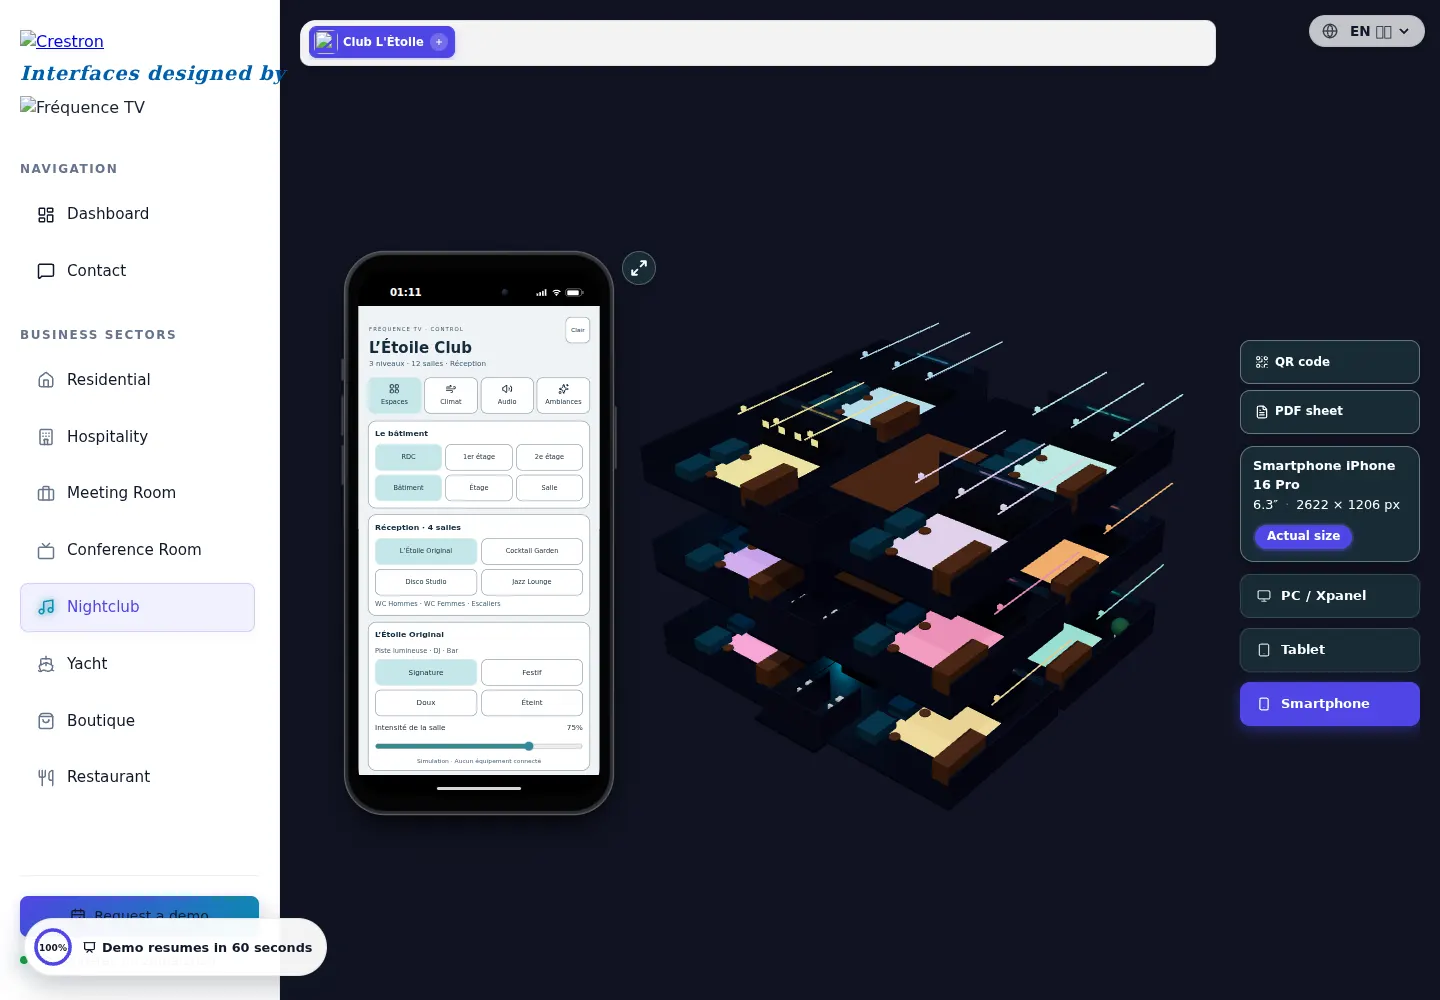
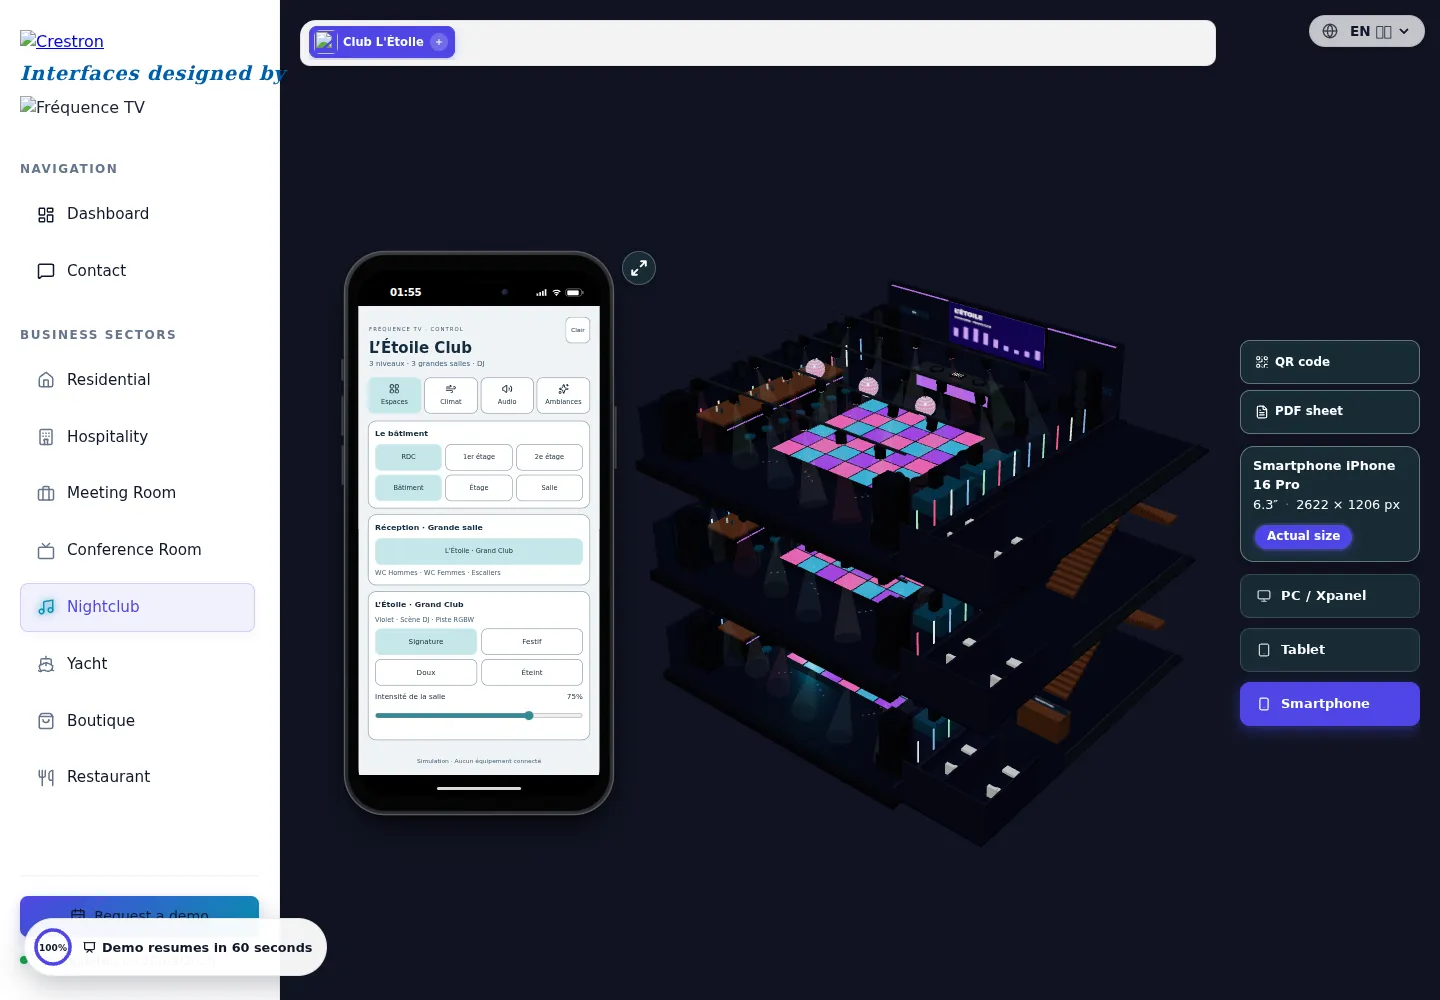
feat(club): one open hall per floor with RGBW rigs, mirror balls and full PA

diff --git a/apps/showcase/public/ftv-luxury/venues/venue.js b/apps/showcase/public/ftv-luxury/venues/venue.js
@@ -61,53 +61,63 @@ if(!club){
  sign('LOUNGE',9,2.2,-12.6,3,.5);sign('BAR',-8,4,-12.6,3,.5);
 }
 
-const clubFloors=[],clubRooms=new Map();
+const clubFloors=[],clubRooms=new Map(),movingHeads=[],mirrorBalls=[];
 if(club){
- const original=new T.Group();original.name='Original club retained';while(model.children.length)original.add(model.children[0]);
- const definitions=[
- {"id":"original","floor":0,"name":"L’Étoile Original","color":"#985cff","style":"original","mood":"Piste lumineuse · DJ · Bar"},
- {"id":"garden","floor":0,"name":"Cocktail Garden","color":"#43cfab","style":"garden","mood":"Vert jade · Jardin lounge"},
- {"id":"disco","floor":0,"name":"Disco Studio","color":"#ed6bae","style":"disco","mood":"Rose · Boule à facettes"},
- {"id":"jazz","floor":0,"name":"Jazz Lounge","color":"#efb75c","style":"jazz","mood":"Ambre · Petite scène live"},
- {"id":"neon","floor":1,"name":"Neon Lab","color":"#34c5f4","style":"neon","mood":"Cyan · Arches lumineuses"},
- {"id":"latino","floor":1,"name":"Latino Club","color":"#f38347","style":"latino","mood":"Corail · Piste chaleureuse"},
- {"id":"house","floor":1,"name":"House Room","color":"#a27bfa","style":"house","mood":"Violet · Lignes en mouvement"},
- {"id":"velvet","floor":1,"name":"Velvet VIP","color":"#dd6890","style":"velvet","mood":"Framboise · Alcôves privées"},
- {"id":"sky","floor":2,"name":"Sky Lounge","color":"#69bdf0","style":"sky","mood":"Bleu glacier · Salon panoramique"},
- {"id":"aurora","floor":2,"name":"Aurora Room","color":"#60dfca","style":"aurora","mood":"Turquoise · Vagues lumineuses"},
- {"id":"retro","floor":2,"name":"Retro Arcade","color":"#eed05a","style":"retro","mood":"Or · Bornes et damier"},
- {"id":"private","floor":2,"name":"Private Suite","color":"#c6a7f0","style":"private","mood":"Lavande · Salon privatisable"}
-]
-;
- for(let f=0;f<3;f++){
- const floor=new T.Group();floor.name='Club level '+f;floor.position.y=f*9;model.add(floor);clubFloors.push(floor);
- const capture=fn=>{const before=new Set(model.children);fn();for(const child of [...model.children])if(!before.has(child))floor.add(child);};
- capture(()=>{
- box('Landing '+f,0,-.15,0,7,.3,34,M.floor);
- box(f===0?'Grand reception':'Central landing',0,0,0,7,.15,13,M.wood);
- if(f===0){box('Reception desk',0,1,7,4,2,1.2,M.black);sign('RÉCEPTION',0,2.6,7,4,.6);}
- // Two flights with a shared intermediate landing; each rises 9 m to the next level.
- if(f<2){for(let i=0;i<15;i++){box('Ascending stair flight',-1.7,i*.3, -3-i*.43,2.4,.3,.45,M.wood);box('Returning stair flight',1.7,4.5+i*.3,-9+i*.43,2.4,.3,.45,M.wood);}box('Stair intermediate landing',0,4.2,-9.7,6,.3,1.2,M.wood);}
- for(const [x,label] of [[-1.8,'WC Hommes'],[1.8,'WC Femmes']]){
- box(label+' floor',x,.02,13.5,3.3,.15,5,M.floor);box(label+' partition',x+1.6,1.5,13.5,.12,3,5,M.wall);box(label+' rear wall',x,1.5,16,3.3,3,.15,M.wall);sign(label,x,2.5,15.85,3,.5);
- for(const z of [12.5,14.6]){cylinder('Toilet bowl',x,.5,z,.4,.5,M.white);box('Toilet cistern',x,.95,z+.45,.7,.9,.25,M.white);}box('Washbasin',x,.9,11.4,1.5,.2,.6,M.white);
+ const original=new T.Group();original.name='Open dance hall';
+ const discarded=new Set([...beams,smoke]);
+ for(const child of [...model.children]){
+  if(discarded.has(child)||['Lighting truss','Moving head','Speaker stack','Speaker grille'].includes(child.name)||(child.position.z>8&&['Lounge banquette','Lounge back','Cocktail table','Table top'].includes(child.name)))model.remove(child);
+  else original.add(child);
  }
- });
- definitions.filter(r=>r.floor===f).forEach((r,i)=>{
- const g=new T.Group();g.name=r.name;g.position.set(i%2===0?-10:10,0,i<2?-8:8);floor.add(g);const mats=[];
- if(r.id==='original'){original.scale.setScalar(.48);g.add(original);mats.push(accent,...floorLights);}
- else{const old=new Set(model.children),glow=luminous(r.color,.8);mats.push(glow);
- box('Room floor',0,0,0,13,.2,15,M.floor);box('Room rear',0,1.6,-7.5,13,3.2,.15,M.wall);box('Room outer wall',i%2===0?-6.5:6.5,1.6,0,.15,3.2,15,M.wall);
- box('Illuminated dance floor',0,.13,0,7,.04,7,glow);box('DJ or live stage',0,.4,-5,7,.8,3,M.black);box('Bar',4,1,3,1.6,2,5,M.wood);
- for(const z of [0,4]){box('Sofa',-4,.55,z,2,1.1,2.8,M.seat);cylinder('Table',-2,.65,z,.5,.12,M.wood);}
- for(const x of [-4,0,4]){box('Ceiling light',x,4,-2,.35,.35,.35,glow);box('Light ribbon',x,3.7,-7.3,.1,.1,12,glow);}
- if(r.style==='disco'){const ball=new T.Mesh(new T.SphereGeometry(.7,12,8),material('#cbd5e7',.1,1));ball.name='Mirror ball';ball.position.set(0,3.7,0);model.add(ball);}
- if(r.style==='garden')for(const x of [-5,5]){cylinder('Planter',x,.45,-4,.5,.9,M.white);const tree=new T.Mesh(new T.SphereGeometry(.9,12,8),material('#326a51'));tree.position.set(x,1.8,-4);model.add(tree);}
- if(r.style==='retro')for(const x of [-4,-2,0,2]){box('Arcade cabinet',x,1.1,-5,1,2.2,1,M.black);box('Arcade display',x,1.55,-4.48,.8,.65,.02,glow);}
- sign(r.name,0,2.8,-7.35,10,.7,r.color);for(const o of [...model.children])if(!old.has(o))g.add(o);
+ beams.length=0;
+ const definitions=[{"id": "original", "floor": 0, "name": "L’Étoile · Grand Club", "color": "#ad63ff", "mood": "Violet · Scène DJ · Piste RGBW"}, {"id": "neon", "floor": 1, "name": "Neon · Electro Hall", "color": "#35ceef", "mood": "Cyan · Faisceaux croisés · DJ"}, {"id": "sky", "floor": 2, "name": "Sky · Disco Hall", "color": "#f085c6", "mood": "Rose & or · Boules à facettes · DJ"}];
+ const rgbw=['#ff426b','#46ed92','#559dff','#fff5df'];
+ for(const r of definitions){
+ const f=r.floor,floor=new T.Group(),g=original.clone(true);floor.name='Club level '+f;floor.position.y=f*9;model.add(floor);clubFloors.push(floor);g.name=r.name;floor.add(g);
+ const mats=[],roomBeams=[],roomHeads=[],balls=[],smokes=[];
+ const cloned=new Map();g.traverse(o=>{if(o.isMesh){o.castShadow=false;if(o.material.emissive&&o.material.emissiveIntensity>0){if(!cloned.has(o.material)){const m=o.material.clone();cloned.set(o.material,m);mats.push(m);}o.material=cloned.get(o.material);}}});
+ const capture=(parent,fn)=>{const before=new Set(model.children);fn();for(const child of [...model.children])if(!before.has(child)){child.castShadow=false;parent.add(child);}};
+ capture(g,()=>{
+ // Four 4.5 m PA towers, each with a double subwoofer and stacked drivers.
+ for(const x of [-9.5,9.5])for(const z of [-10.8,10.8]){
+ const tower=box('Giant corner speaker',x,2.25,z,1.7,4.5,1.45,M.black);tower.userData.kind='cornerSpeaker';
+ box('Dual subwoofer enclosure',x,.65,z,2.1,1.3,1.65,M.black);
+ for(const y of [.5,1.15,2,2.8,3.65,4.15]){const driver=cylinder('PA driver',x,y,z+(z>0?-.84:.84),y<1.3?.32:.45,.07,M.metal);driver.rotation.x=Math.PI/2;}
  }
- clubRooms.set(r.id,{group:g,floor:f,materials:mats});
+ for(const x of [-10.7,10.7])for(const z of [-6,-1,4,8]){
+ const speaker=box('Wall speaker',x,3.8,z,.55,1.15,.8,M.black);speaker.userData.kind='wallSpeaker';box('Wall speaker grille',x+(x>0?-.29:.29),3.8,z,.035,.95,.65,M.metal);
+ }
+ for(const z of [-5,0,5,10]){
+ box('DMX lighting truss',0,5.95,z,20,.13,.13,M.metal);
+ for(let k=0;k<6;k++){
+ const x=-8+k*3.2,color=rgbw[(k+Math.round(z/5)+f+8)%4],lens=luminous(color,1);mats.push(lens);
+ box('Lyre suspension',x,5.75,z,.55,.2,.55,M.black);
+ const head=new T.Group();head.name='DMX RGBW moving head';head.position.set(x,5.5,z);head.userData.floor=f;g.add(head);roomHeads.push(head);movingHeads.push(head);
+ const body=new T.Mesh(new T.BoxGeometry(.48,.6,.48),M.black);body.position.y=-.12;head.add(body);
+ const optic=new T.Mesh(new T.CylinderGeometry(.18,.18,.06,12),lens);optic.position.y=-.45;head.add(optic);
+ const beam=new T.Mesh(new T.ConeGeometry(.95,4.9,12,1,true),new T.MeshBasicMaterial({color,transparent:true,opacity:.065,depthWrite:false,side:T.DoubleSide}));beam.name='RGBW light beam';beam.position.y=-2.9;head.add(beam);beams.push(beam);roomBeams.push(beam);
+ }
+ }
+ for(const x of [-5,0,5]){
+ cylinder('Mirror ball cable',x,5.5,2,.018,.7,M.metal);
+ const ball=new T.Mesh(new T.SphereGeometry(.66,24,12).toNonIndexed(),new T.MeshStandardMaterial({color:'#d6e4f2',metalness:.9,roughness:.15,flatShading:true,emissive:r.color,emissiveIntensity:.13}));ball.name='Mirror ball';ball.position.set(x,4.75,2);model.add(ball);balls.push(ball);mirrorBalls.push(ball);
+ // Individual mirror tiles pick up alternating white and coloured highlights.
+ const tiles=new T.InstancedMesh(new T.BoxGeometry(.105,.105,.018),new T.MeshStandardMaterial({color:'#edf4ff',metalness:.75,roughness:.18,emissive:'#b8cbdf',emissiveIntensity:.18}),192);tiles.name='Mirror mosaic';const dummy=new T.Object3D();let n=0;
+ for(let row=1;row<=8;row++)for(let col=0;col<24;col++){const phi=row*Math.PI/9,theta=col*Math.PI/12;dummy.position.set(.67*Math.sin(phi)*Math.cos(theta),.67*Math.cos(phi),.67*Math.sin(phi)*Math.sin(theta));dummy.lookAt(dummy.position.clone().multiplyScalar(2));dummy.updateMatrix();tiles.setMatrixAt(n++,dummy.matrix);}ball.add(tiles);mats.push(ball.material,tiles.material);
+ }
+ for(const x of [-10.6,10.6])for(let i=0;i<12;i++){const led=luminous(rgbw[(i+f)%4],.7);mats.push(led);box('RGBW wall LED bar',x,1.3,-9+i*1.7,.07,1.8,.12,led);}
+ const dots=new T.InstancedMesh(new T.CircleGeometry(.09,6),new T.MeshBasicMaterial({color:r.color,transparent:true,opacity:.65,depthWrite:false}),64);dots.count=64;dots.name='Mirror ball light dots';const dummy=new T.Object3D();for(let i=0;i<64;i++){dummy.position.set(Math.sin(i*2.4)*4.7,.13,-3+((i*1.73)%12));dummy.rotation.x=-Math.PI/2;dummy.updateMatrix();dots.setMatrixAt(i,dummy.matrix);}model.add(dots);
+ for(let i=0;i<8;i++){const puff=new T.Mesh(new T.SphereGeometry(.75,10,6),new T.MeshBasicMaterial({color:r.color,transparent:true,opacity:.035,depthWrite:false}));puff.name='Haze';puff.position.set(-3+i*.8,.5+Math.sin(i)*.15,-4);puff.visible=false;model.add(puff);smokes.push(puff);}
  });
+ // Service annex beside the single open hall, without partitioning its dance floor.
+ capture(floor,()=>{
+ box('Reception and landing',15,-.08,0,7,.2,26,M.floor);
+ box('Landing balustrade',18.5,.6,-4,.1,1.2,15,M.metal);
+ if(f===0){box('Reception desk',15,1,1,3.5,2,1.5,M.wood);sign('RÉCEPTION',15,2.4,1,4,.5);}
+ if(f<2){for(let i=0;i<15;i++){box('Ascending stair',13.3,.15+i*.3,-3-i*.43,2.3,.3,.45,M.wood);box('Returning stair',16.5,4.65+i*.3,-9+i*.43,2.3,.3,.45,M.wood);}box('Stair landing',15,4.5,-9.7,6,.3,1.2,M.wood);}
+ for(const [x,label] of [[13.2,'WC Hommes'],[16.7,'WC Femmes']]){box(label+' floor',x,.05,9.5,3.3,.15,6,M.floor);box(label+' side',x+1.65,1.5,9.5,.12,3,6,M.wall);box(label+' rear',x,1.5,12.5,3.3,3,.12,M.wall);sign(label,x,2.5,12.4,3,.5);for(const z of [9,11]){cylinder('Toilet bowl',x,.5,z,.38,.5,M.white);box('Cistern',x,.95,z+.45,.7,.9,.25,M.white);}box('Washbasin',x,.9,7,1.5,.2,.6,M.white);}
+ });
+ clubRooms.set(r.id,{group:g,floor:f,materials:mats,beams:roomBeams,heads:roomHeads,balls,smokes,level:.75});
  }
 }
 
@@ -123,17 +133,22 @@ function frame(){const w=innerWidth,h=innerHeight,v=viewport||{x:0,y:0,w,h};rend
  }camera.position.copy(center).addScaledVector(dir,hi*zoom);camera.lookAt(center);camera.setViewOffset(v.w,v.h,-v.x,-v.y,w,h);camera.updateProjectionMatrix();}
 let lastSource='';function apply(s){
  if(club){
- const view=s.clubView||'building',floor=s.clubFloor||0,room=clubRooms.get(s.clubRoom||'original');
- clubFloors.forEach((g,i)=>{g.visible=view==='building'||i===floor;});
- clubRooms.forEach((r,id)=>{r.group.visible=view!=='room'||id===(s.clubRoom||'original');const setting=s.roomSettings?.[id]||{scene:'signature',level:75};r.materials.forEach(m=>m.emissiveIntensity=setting.scene==='off'?0:setting.level/100*(setting.scene==='party'?1.6:setting.scene==='calm'?.35:1));});
- fitObject=view==='room'?room.group:view==='floor'?clubFloors[floor]:model;frame();
- smoke.visible=!!s.smokeActive;accent.emissiveIntensity=s.strobeActive?1.7:.8;beams.forEach(b=>b.material.opacity=s.strobeActive?.1:.045);stageLight.intensity=s.strobeActive?130:80;floorLights.forEach(m=>m.emissiveIntensity=s.strobeActive?.9:.4)}
+ const floor=Math.max(0,Math.min(2,Number(s.clubFloor)||0)),fallback=[...clubRooms.values()].find(r=>r.floor===floor),room=clubRooms.get(s.clubRoom)||fallback,view=s.clubView||'building';
+ clubFloors.forEach((g,i)=>{g.visible=view==='building'||i===room.floor;});
+ clubRooms.forEach((r,id)=>{
+ r.group.visible=view!=='room'||r===room;const setting=s.roomSettings?.[id]||{scene:'signature',level:75};r.level=setting.scene==='off'?0:setting.level/100*(setting.scene==='party'?1.25:setting.scene==='calm'?.3:.8);
+ r.materials.forEach(m=>m.emissiveIntensity=r.level);r.beams.forEach(b=>b.material.opacity=r.level*(s.strobeActive?.11:.075));r.group.getObjectByName('Mirror ball light dots').material.opacity=r.level*.65;r.smokes.forEach(p=>p.visible=!!s.smokeActive&&r.level>0);
+ });
+ const nextFit=view==='room'?room.group:view==='floor'?clubFloors[room.floor]:model;if(fitObject!==nextFit){fitObject=nextFit;frame();}
+ smoke.visible=!!s.smokeActive;stageLight.intensity=80*room.level;stageLight.position.y=room.floor*9+5;fill.intensity=45*room.level;fill.position.y=room.floor*9+4;
+ }
+
  else{const d=s.dimmers||{faceSpots:85,backlights:60,audienceLights:40};stageLight.intensity=d.faceSpots*1.5;fill.intensity=d.audienceLights*1.5;accent.color.set(s.lightsColor||'#e6c997');accent.emissive.copy(accent.color);accent.emissiveIntensity=d.backlights/70;lightMat.emissiveIntensity=d.faceSpots/60;beams.forEach((b,i)=>{b.material.opacity=(i<2?d.faceSpots:d.audienceLights)/100*.09;b.material.color.set(s.lightsColor||'#ffe2a1')});screenMat.emissiveIntensity=(s.ledWallBrightness??90)/100;screenMat.color.setScalar((s.ledWallBrightness??90)/100);if(lastSource!==s.ledWallSource){lastSource=s.ledWallSource;drawScreen(lastSource)}}
  window.__venue.state=s;
 }
-window.__venue={scene,renderer,camera,model,apply,state:{},beams,smoke};
+window.__venue={scene,renderer,camera,model,apply,state:{},beams,smoke,clubFloors,clubRooms,movingHeads,mirrorBalls};
 window.addEventListener('message',e=>{if(e.origin!==location.origin||e.source!==parent||e.data?.channel!==channel||e.data.project!==project)return;const d=e.data;if(d.type==='hello')send('ready');if(d.type==='state'&&d.state)apply(d.state);if(d.type==='viewport'&&d.viewport&&Object.values(d.viewport).every(Number.isFinite)){viewport=d.viewport;frame()}if(d.type==='visibility')visible=!!d.visible;if(d.type==='zoom'){zoom=T.MathUtils.clamp(zoom+d.delta*.06,.75,1.3);frame()}});
 window.addEventListener('resize',frame);frame();
-let previous=0;function animate(t){requestAnimationFrame(animate);if(!visible||document.hidden||t-previous<33)return;previous=t;if(!matchMedia('(prefers-reduced-motion: reduce)').matches)beams.forEach((b,i)=>{b.rotation.z=Math.sin(t*.00035+i)*.12});renderer.render(scene,camera)}requestAnimationFrame(animate);send('ready');
+let previous=0;function animate(t){requestAnimationFrame(animate);if(!visible||document.hidden||t-previous<33)return;previous=t;if(!matchMedia('(prefers-reduced-motion: reduce)').matches){if(club){clubRooms.forEach(r=>{if(!r.level)return;r.heads.forEach((h,i)=>{h.rotation.z=Math.sin(t*.00045+i*.7+r.floor)*.24;h.rotation.x=Math.cos(t*.0003+i*.9)*.2;});r.balls.forEach(ball=>ball.rotation.y=t*.00015);});}else beams.forEach((b,i)=>{b.rotation.z=Math.sin(t*.00035+i)*.12});}renderer.render(scene,camera)}requestAnimationFrame(animate);send('ready');
 }catch(e){send('error');console.error(e)}
 })();

diff --git a/apps/showcase/src/data/sheets/club-etoile.js b/apps/showcase/src/data/sheets/club-etoile.js
@@ -127,7 +127,7 @@ export default {
       {
         "title": "Smartphone et décor 3D",
         "image": "/ftv-luxury/venues/club-etoile.webp",
-        "text": "Le Smartphone ouvre les Espaces : RDC et deux étages, quatre salles par niveau, toilettes hommes et femmes, réception et escaliers. Vues Bâtiment, Étage et Salle ; ambiances et intensités indépendantes. Le club original avec piste, DJ, bar et lounge est conservé au RDC. Stroboscope sans clignotement.",
+        "text": "Trois niveaux avec une seule grande salle ouverte par étage. Chaque salle comprend un DJ avec platines et mixeur, quatre grandes colonnes d’enceintes aux coins, huit enceintes murales, vingt-quatre lyres DMX RGBW, trois boules à facettes, une piste et vingt-quatre barres LED. Scènes et intensité indépendantes par étage ; faisceaux mobiles, reflets et fumée simulée. Réception, escaliers et sanitaires conservés.",
         "buttons": []
       }
     ]
@@ -259,7 +259,7 @@ export default {
       {
         "title": "Smartphone and 3D setting",
         "image": "/ftv-luxury/venues/club-etoile.webp",
-        "text": "The Smartphone opens Spaces: ground floor and two upper levels, four rooms per level, male and female toilets, reception and stairs. Building, Floor and Room views with independent moods and levels. The original dance floor, DJ, bar and lounge remain on the ground floor. Strobe without flashing.",
+        "text": "Three levels with one large open hall per floor. Each hall has a DJ desk with decks and mixer, four giant corner speaker stacks, eight wall speakers, twenty-four RGBW DMX moving heads, three mirror balls, a dance floor and twenty-four LED bars. Independent scenes and intensity per floor; moving beams, reflections and simulated haze. Reception, stairs and toilets retained.",
         "buttons": []
       }
     ]
@@ -391,7 +391,7 @@ export default {
       {
         "title": "Smartphone und 3D-Umgebung",
         "image": "/ftv-luxury/venues/club-etoile.webp",
-        "text": "Das Smartphone startet mit Räume: Erdgeschoss und zwei Obergeschosse, je vier Räume, Herren- und Damentoiletten, Empfang und Treppen. Gebäude-, Etagen- und Raumansichten mit unabhängigen Lichtszenen. Der ursprüngliche Club bleibt im Erdgeschoss. Stroboskop ohne Blinken.",
+        "text": "Drei Ebenen mit je einem großen offenen Saal. Jeder Saal bietet ein DJ-Pult mit Plattenspielern und Mixer, vier große Ecklautsprechertürme, acht Wandlautsprecher, vierundzwanzig RGBW-DMX-Moving-Heads, drei Discokugeln, eine Tanzfläche und vierundzwanzig LED-Leisten. Unabhängige Szenen und Helligkeit je Etage; bewegte Lichtkegel, Reflexe und simulierter Nebel. Empfang, Treppen und Toiletten bleiben erhalten.",
         "buttons": []
       }
     ]

diff --git a/apps/showcase/src/components/simulators/ClubEtoile.jsx b/apps/showcase/src/components/simulators/ClubEtoile.jsx
@@ -72,7 +72,7 @@ export const ClubEtoile = ({ deviceType }) => {
 
   useVenueState('club-etoile', { crowdDensity, smokeActive, strobeActive, strobeFreq, dancefloorVolume, barVolume, clubFloor, clubRoom, clubView, roomSettings });
   const isPhone = deviceType === "phone";
-  if (isPhone) return <VenuePhone name="L’Étoile Club" subtitle="3 niveaux · 12 salles · Réception" active={activeTab} onTab={setActiveTab} tabs={[["spaces","Espaces","LayoutGrid"],["hvac","Climat","Wind"],["audio_limit","Audio","Volume2"],["effects","Ambiances","Sparkles"]]}>
+  if (isPhone) return <VenuePhone name="L’Étoile Club" subtitle="3 niveaux · 3 grandes salles · DJ" active={activeTab} onTab={setActiveTab} tabs={[["spaces","Espaces","LayoutGrid"],["hvac","Climat","Wind"],["audio_limit","Audio","Volume2"],["effects","Ambiances","Sparkles"]]}>
     {activeTab==='spaces' && <ClubSpaces floor={clubFloor} onFloor={changeFloor} room={clubRoom} onRoom={changeRoom} view={clubView} onView={setClubView} settings={roomSettings[clubRoom]} onSettings={patch=>setRoomSettings(s=>({...s,[clubRoom]:{...s[clubRoom],...patch}}))}/>}
     {activeTab==='hvac' && <><Card title="Affluence"><Choices value={crowdDensity} onChange={setCrowdDensity} options={[["cozy","Calme"],["busy","Normal"],["packed","Forte affluence"]]}/></Card><Card title="Ventilation & climatisation"><p className="venue-readout">{targetTemp.toFixed(1)} °C</p><p className="venue-note">Consigne adaptée à l’affluence · CTA en ligne</p><Slider label="Extraction d’air" value={fanSpeed} onChange={setFanSpeed}/></Card><Card title="Fin de service"><button className="venue-toggle" onClick={()=>{setCrowdDensity('cozy');setSmokeActive(false);setStrobeActive(false);setDancefloorVolume(0);setBarVolume(0)}}>Éteindre le son et les effets</button></Card></>}
     {activeTab==='audio_limit' && <><Card title="Capteur acoustique · Simulation"><p className="venue-readout">{currentDb} dB</p><p className="venue-note">{limiterTripped?'Limiteur actif · seuil atteint':'Seuil du simulateur : 105 dB'}</p></Card><Card title="Volume par zone"><Slider label="Piste" value={dancefloorVolume} onChange={setDancefloorVolume}/><Slider label="Bar" value={barVolume} onChange={setBarVolume}/><p className="venue-note">Aucun son n’est diffusé.</p></Card></>}

diff --git a/apps/showcase/src/venues/ClubSpaces.jsx b/apps/showcase/src/venues/ClubSpaces.jsx
@@ -6,7 +6,7 @@ export function ClubSpaces({floor,onFloor,room,onRoom,view,onView,settings,onSet
  const selected=rooms.find(r=>r.id===room);
  return <>
   <Card title="Le bâtiment"><div className="club-floor-tabs">{['RDC','1er étage','2e étage'].map((label,i)=><button key={label} aria-pressed={floor===i} onClick={()=>onFloor(i)}>{label}</button>)}</div><div className="club-view-tabs">{[['building','Bâtiment'],['floor','Étage'],['room','Salle']].map(([id,label])=><button key={id} aria-pressed={view===id} onClick={()=>onView(id)}>{label}</button>)}</div></Card>
-  <Card title={floor===0?'Réception · 4 salles':'Palier · 4 salles'}><div className="venue-choices club-room-choices">{rooms.filter(r=>r.floor===floor).map(r=><button key={r.id} aria-pressed={room===r.id} onClick={()=>onRoom(r.id)}>{r.name}</button>)}</div><p className="venue-note club-facilities">WC Hommes · WC Femmes · Escaliers</p></Card>
+  <Card title={floor===0?'Réception · Grande salle':'Palier · Grande salle'}><div className="venue-choices club-room-choices">{rooms.filter(r=>r.floor===floor).map(r=><button key={r.id} aria-pressed={room===r.id} onClick={()=>onRoom(r.id)}>{r.name}</button>)}</div><p className="venue-note club-facilities">WC Hommes · WC Femmes · Escaliers</p></Card>
   <Card title={selected.name}><p className="venue-note">{selected.mood}</p><Choices value={settings.scene} options={[["signature","Signature"],["party","Festif"],["calm","Doux"],["off","Éteint"]]} onChange={scene=>onSettings({scene})}/><Slider label="Intensité de la salle" value={settings.level} onChange={level=>onSettings({level})}/></Card>
  </>;
 }

diff --git a/apps/showcase/src/venues/phone.css b/apps/showcase/src/venues/phone.css
@@ -5,3 +5,5 @@
 
 .venue-phone header{position:relative}.venue-phone .venue-theme{position:absolute;right:0;top:-7px;font-size:10px;min-height:44px;padding:5px 8px}.venue-phone header .venue-eyebrow{display:block;padding-right:60px;font-size:9px}
 .club-floor-tabs,.club-view-tabs{display:flex;gap:6px}.club-floor-tabs button,.club-view-tabs button{flex:1;font-size:11px;padding:5px}.club-view-tabs{margin-top:7px}.club-room-choices button{font-size:11px;min-height:44px}.venue-phone .club-facilities{margin-bottom:0}.venue-phone:has(.club-floor-tabs) .venue-card{padding:11px}.venue-phone:has(.club-floor-tabs) .venue-card h2{margin-bottom:8px}
+
+.club-room-choices:has(>button:only-child){grid-template-columns:1fr}
